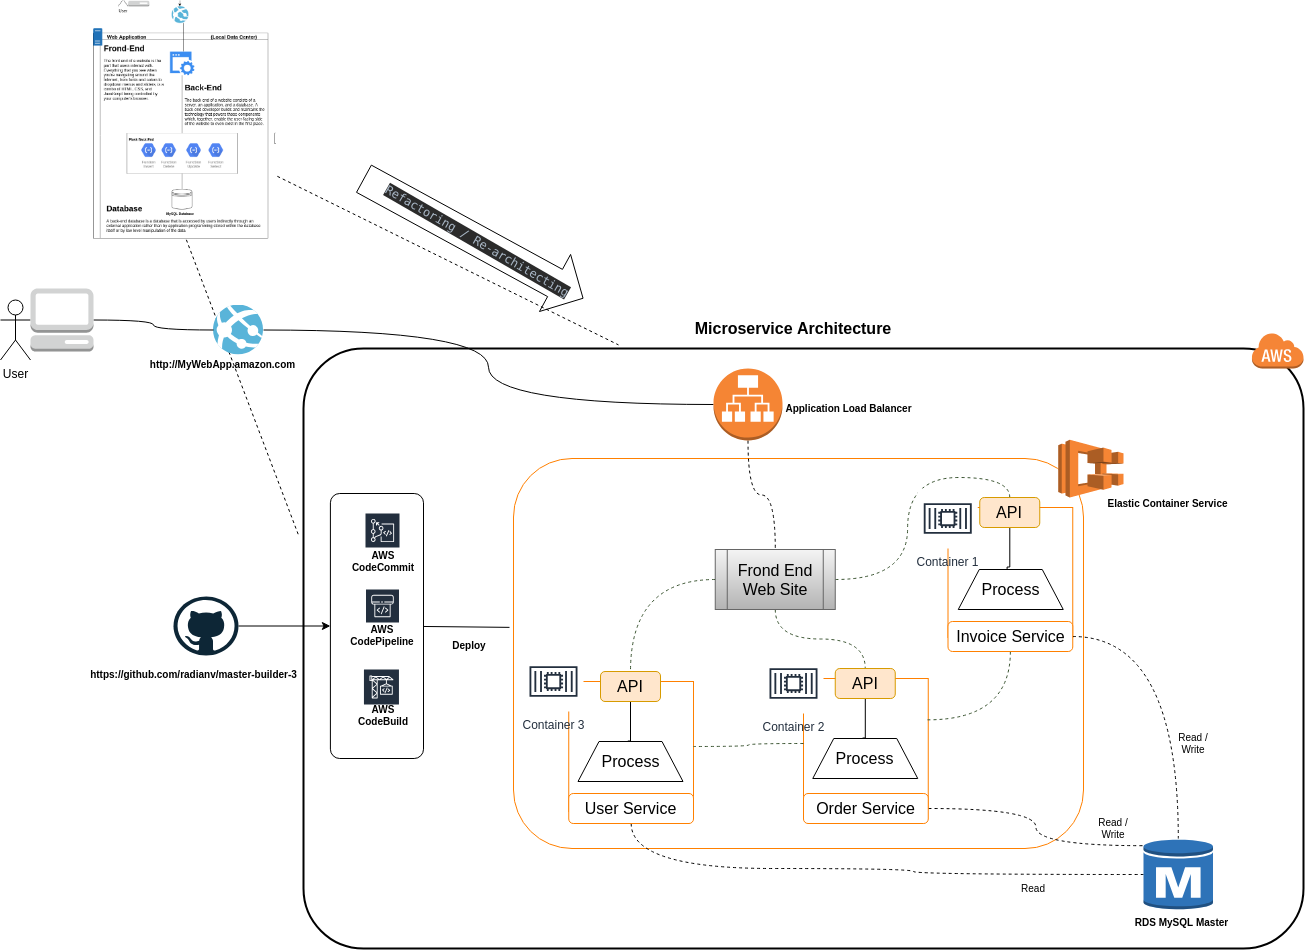
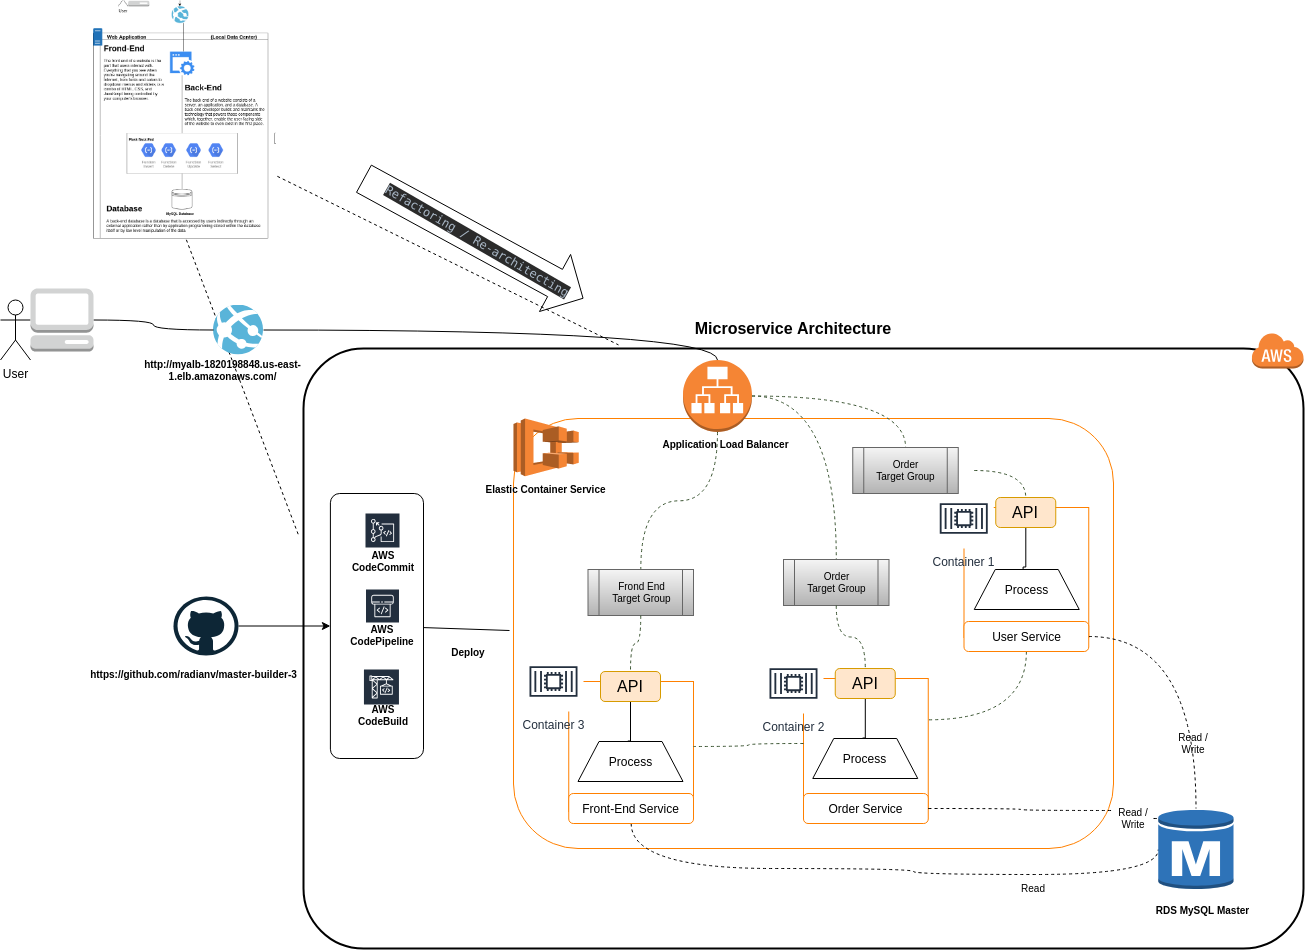
Updating Web Application with Microservices Deploy View and README

diff --git a/README.md b/README.md
@@ -42,11 +42,38 @@ The strategy is using __"Forklift Migration Strategy"__, we will convert current
 
 ### Activities
 
-Step 1, Creating and Setup EC2 Instance for initial environment. 
+Step 1, Creating and Setup EC2 Instance for initial environment.
 
-Step 2, Deploy Web Application code from Github Account.
+- Go to [Lunch instance wizard](https://console.aws.amazon.com/ec2/v2/home?region=us-east-1#LaunchInstanceWizard:)
+- Chose Free tier and select, **Amazon Linux 2 AMI (HVM), SSD Volume Type**.
+. For instance type we will use **t2.large** it has well fit for Web Application Environment performance, please see more about [Amazon EC2 Instance Types](https://aws.amazon.com/ec2/instance-types/)
+- For ** Configure Instance Details** we will setup next Bootstrap script, for more information see [Running commands on your Linux instance at launch](https://docs.aws.amazon.com/AWSEC2/latest/UserGuide/user-data.html)
+```
+#!/bin/bash
+yum update -y
+yum install -y git
+amazon-linux-extras install docker
+service docker start
+usermod -a -G docker ec2-user
+curl -L "https://github.com/docker/compose/releases/download/1.25.5/docker-compose-$(uname -s)-$(uname -m)" -o /usr/local/bin/docker-compose
+chmod +x /usr/local/bin/docker-compose
+ln -s /usr/local/bin/docker-compose /usr/bin/docker-compose
+git clone https://github.com/radianv/master-builder-3.git
+docker-compose -f /master-builder-3/workspace/dev/code-webapp-micro/frontend/docker-compose.deploy.yml up -d
+```
+- Add Storage as is (just default).
+- Add Tags, use next values: `key=Name` and `Value=WebServer1`
+- Next Configure New Security Group, next values: 
+  - Name: webMB3
+  - VPC: default
+  - Security group rules: Allow access to next ports: `80`, `22`, `3306`  
+- Finally Review and Launch
 
-Step 3, Create ELB and Target Groups.
+Step 2, Create ELB and Target Groups.
+
+Step 3, Add WebServer to Target Group.
+
+Step 4, check  the application is a Live on AWS:http://myalb-1820198848.us-east-1.elb.amazonaws.com/
 
 ## Refactoring / Re-architecting
 
